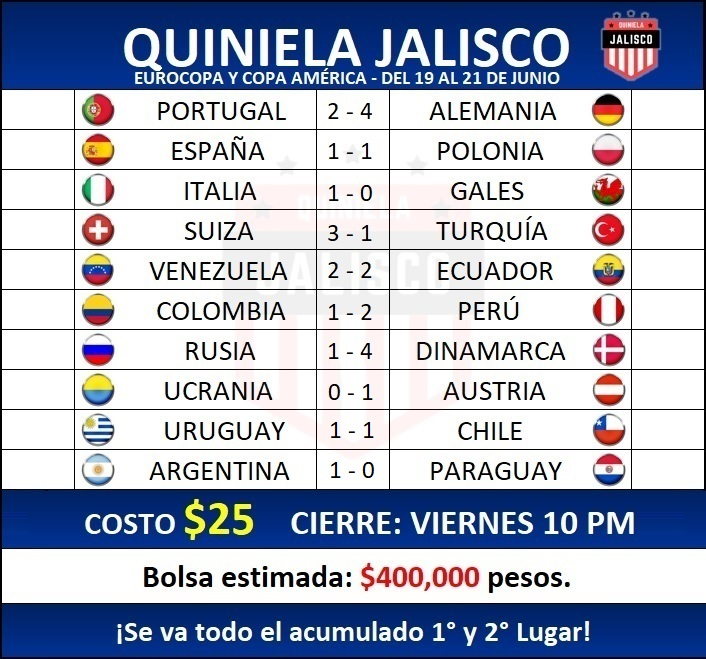
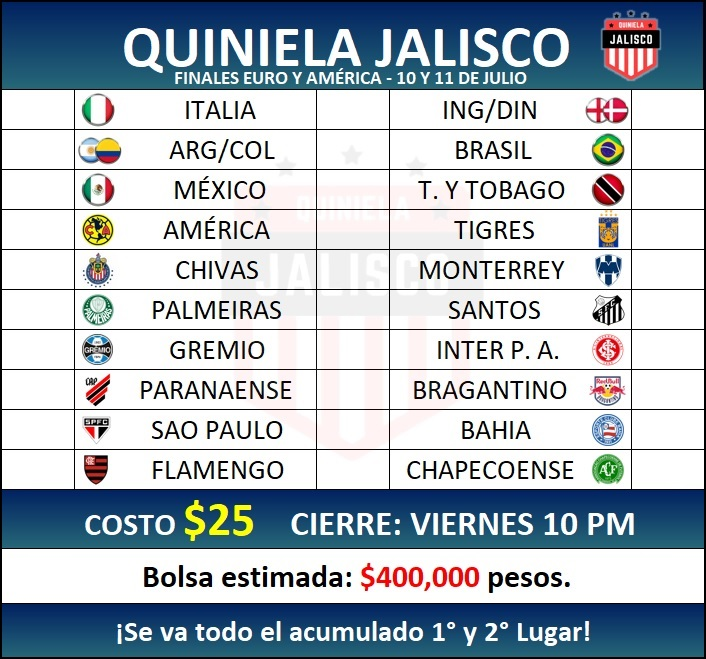
Final Euro/America

diff --git a/index.html b/index.html
@@ -2,23 +2,23 @@
 <html lang="en" translate="no">
 <head>
     <meta charset="UTF-8">
+    <meta name="google" content="notranslate">
     <meta name="viewport" content="width=device-width, initial-scale=1.0, user-scalable=no">
     <meta name="description" content="¡Registra aquí tus quinielas! - Quiniela Liga MX">
-    <meta name="keywords" content="Quiniela, Liga MX, Apostar, Pronósticos">
+    <meta name="keywords" content="Quiniela, Liga MX, Apostar, Pronósticos, Eurocopa, Copa America">
     <title>Quiniela Jalisco</title>
     <link href="https://fonts.googleapis.com/css2?family=Roboto&display=swap" rel="stylesheet">
-    <link rel="stylesheet" href="styles.css">
+    <link rel="stylesheet" href="10/styles10.css">
     <link rel="icon" href="icon.jpg">
     <link rel="apple-touch-icon" href="icon.jpg">
     <link rel="shortcut icon" href="icon.jpg" type="image/x-icon">
     <script type="module" src="https://unpkg.com/ionicons@5.1.2/dist/ionicons/ionicons.esm.js"></script>
     <script nomodule="" src="https://unpkg.com/ionicons@5.1.2/dist/ionicons/ionicons.js"></script>
-    <script src="main1.js"></script>
+    <script src="10/main10.js"></script>
 </head>
 
 <body>
-    <br>
-    <br>
+    <p id='bolsa'>¡Se reparte todo el acumulado!<br> Bolsa estimada: <span style="color:yellow">$400,000</span> pesos</p>
     <div class="quiniela" id="quiniela">
         <div class="aux"><h3 style="padding: 5px 7px" onclick="clean()"><ion-icon name="close-outline"></ion-icon></h3></div>
         <div class="partido">
@@ -83,6 +83,13 @@
             <span id="E9" onclick="selection(this)"></span>
             <div id="_"></div>
             <span id="V9" onclick="selection(this)"></span>
+        </div>
+    <div class="partido">
+            <span id="L10" onclick="selection(this)"></span>
+            <div id="_"></div>
+            <span id="E10" onclick="selection(this)"></span>
+            <div id="_"></div>
+            <span id="V10" onclick="selection(this)"></span>
         </div>
         <h1 id="text"></h1>
     </div>

diff --git a/10/styles10.css b/10/styles10.css
@@ -88,8 +88,8 @@ h1{
     margin-top: 8%;
     border: solid 1px black;
     border-radius: 0 0 14px 14px;
-    background: -webkit-linear-gradient(0.5turn, rgb(0,50,147)  ,rgb(0,34,97) 80%);
-    background: linear-gradient(0.5turn, rgb(0,50,147)  ,rgb(0,34,97) 80%);
+    background: -webkit-linear-gradient(0.5turn, rgb(35,100,120)  ,rgb(5,36,100) 80%);
+    background: linear-gradient(0.5turn, rgb(35,100,120)  ,rgb(5,36,100) 80%);
     font-size: x-large;
 }
 
